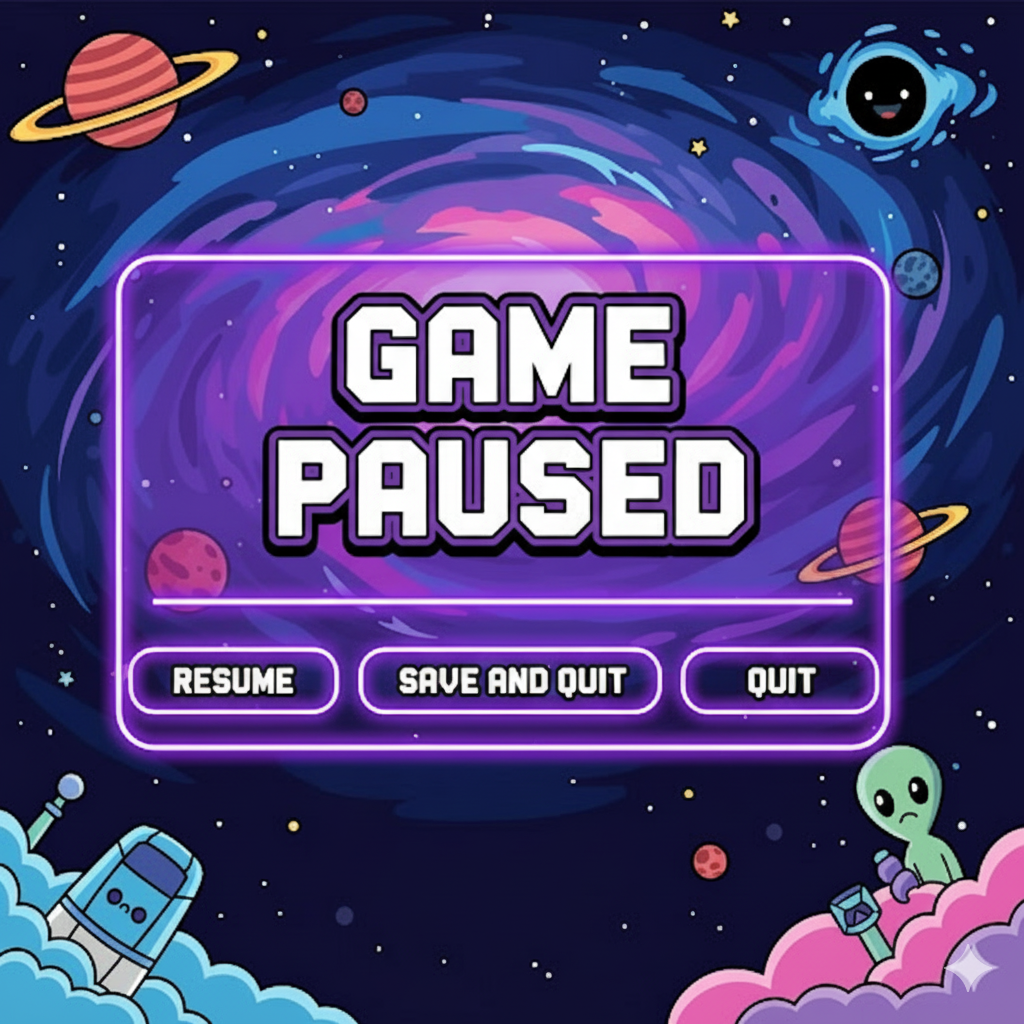
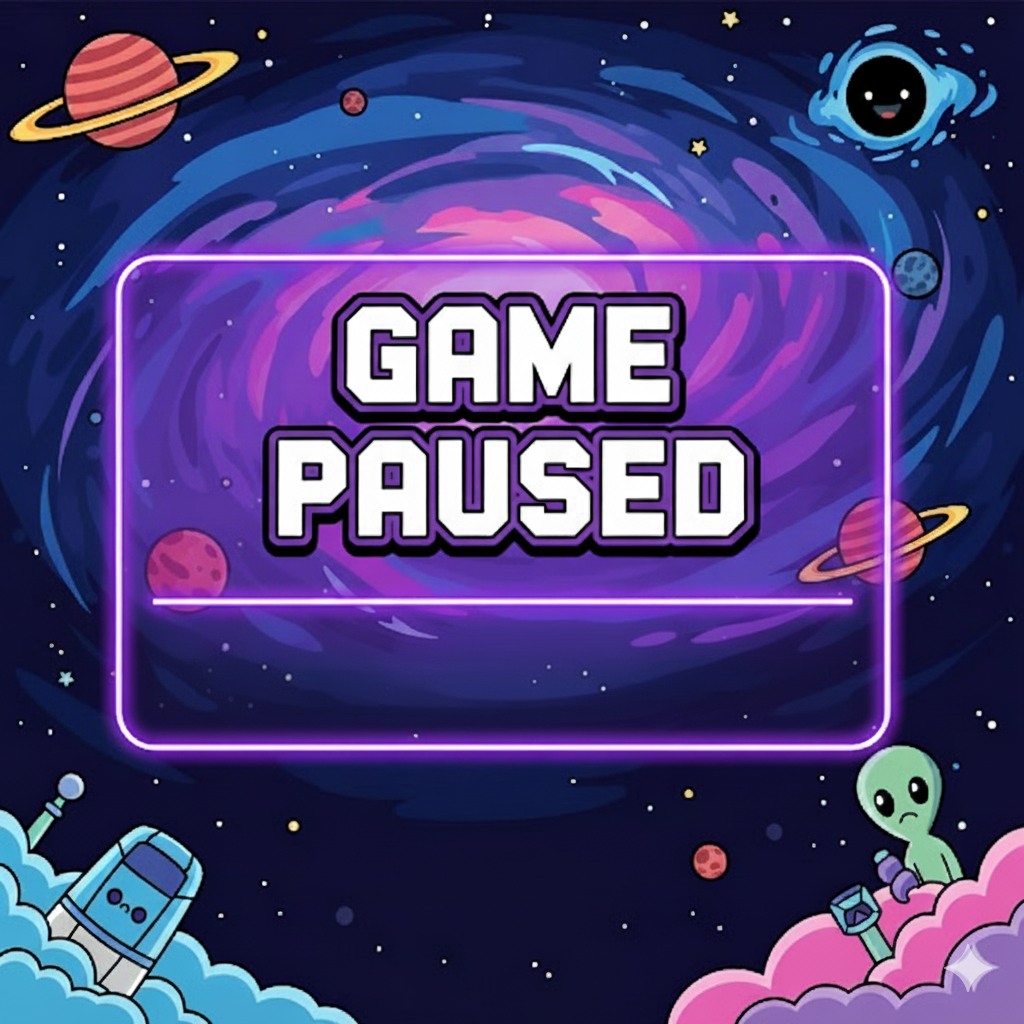
change way save game, save more game information

Changed region(s): [[0.0938, 0.5938, 0.875, 0.7188]]

diff --git a/src/main/java/Game/GameManager.java b/src/main/java/Game/GameManager.java
@@ -12,6 +12,7 @@ import javafx.scene.effect.DropShadow;
 import javafx.scene.image.Image;
 import javafx.scene.input.KeyCode;
 
+import java.io.File;
 import java.util.ArrayList;
 import java.util.Iterator;
 import java.util.List;
@@ -323,15 +324,12 @@ public class GameManager {
     public void saveGame(String fileName){
         GameState curState = new GameState();
 
-        // Lưu trạng thái ball: nếu có nhiều bóng, lưu trạng thái của quả đầu (đơn giản)
+        //save balls
         if (!balls.isEmpty()) {
-            Ball b = balls.get(0);
-            curState.setBallX(b.getX());
-            curState.setBallY(b.getY());
-            curState.setBallDirectionX(b.getDirectionX());
-            curState.setBallDirectionY(b.getDirectionY());
-            curState.setBallDX(b.getDx());
-            curState.setBallDY(b.getDy());
+            for(int i = 0; i < balls.size(); i++){
+                curState.balls.add(balls.get(i));
+            }
+
         }
 
         //save paddle state
@@ -343,39 +341,62 @@ public class GameManager {
         curState.setLives(lives);
         curState.setScore(score);
 
+        //save current level
+        curState.setLevel(currentLevel);
+
         //save brick state
         for(Brick brick : bricks){
             curState.bricks.add(new GameState.BrickState(brick.getX(), brick.getY(), brick.isDestroyed(), brick.getHitPoints()));
         }
 
-        //save to json file
-        try (FileWriter writer = new FileWriter(fileName)) {
+        //save powerUp
+        curState.setPowerUpManager(powerUpManager);
+
+        //save to json file in user's home directory
+        String userHome = System.getProperty("user.home");
+        File saveDir = new File(userHome, "ArkanoidSave");
+        if (!saveDir.exists()) saveDir.mkdirs(); // tạo thư mục nếu chưa có
+
+        File saveFile = new File(saveDir, "save.json");
+
+        try (FileWriter writer = new FileWriter(saveFile)) {
             Gson gson = new Gson();
             gson.toJson(curState, writer);
-            System.out.println("Game saved to " + fileName);
+            System.out.println("Game saved to: " + saveFile.getAbsolutePath());
         } catch (IOException e) {
             e.printStackTrace();
         }
-
     }
 
     //Load Game
     public void loadGame(String fileName){
+        String userHome = System.getProperty("user.home");
+        File saveFile = new File(userHome, "ArkanoidSave/save.json");
+
+        if (!saveFile.exists()) {
+            System.out.println("⚠Save file not found: " + saveFile.getAbsolutePath());
+            return;
+        }
+
         try (FileReader reader = new FileReader(fileName)) {
             Gson gson = new Gson();
             GameState state = gson.fromJson(reader, GameState.class);
 
             //load ball (đặt lại 1 bóng chính theo file)
             ensureSingleBallAttachedToPaddle();
-            if (!balls.isEmpty()) {
-                Ball b = balls.get(0);
-                b.setX(state.getBallX());
-                b.setY(state.getBallY());
-                b.setDx(state.getBallDX());
-                b.setDy(state.getBallDY());
-                b.setDirectionX(state.getBallDirectionX());
-                b.setDirectionY(state.getBallDirectionY());
+            balls.clear();
+            for(int i = 0; i < state.balls.size(); i++){
+                balls.add(balls.get(i));
             }
+
+            //load powerUpManager
+            powerUpManager = state.getPowerUpManager();
+            if (powerUpManager == null) {
+                powerUpManager = new PowerUpManager(screenHeight);
+            }
+
+            //load level
+            currentLevel = state.getLevel();
 
             //load paddle
             paddle.setX(state.getPaddleX());

diff --git a/src/main/java/Game/GameState.java b/src/main/java/Game/GameState.java
@@ -1,19 +1,22 @@
 package Game;
 
+import Game.PowerUp.PowerUp;
+import Game.PowerUp.PowerUpManager;
+
 import java.util.ArrayList;
 import java.util.List;
 
 public class GameState {
-    private double ballX, ballY;
-    private double ballDX, ballDY;
-    private double ballDirectionX, ballDirectionY;
-
+    private PowerUpManager powerUpManager;
     private double paddleX, paddleY;
     private int paddleSpeed;
     private int score;
     private int lives;
 
+    private int level;
+
     public List<BrickState> bricks = new ArrayList<>();
+    public List<Ball> balls = new ArrayList<>();
 
     public static class BrickState{
         private double x, y;
@@ -62,6 +65,22 @@ public class GameState {
         }
     }
 
+    public PowerUpManager getPowerUpManager() {
+        return powerUpManager;
+    }
+
+    public void setPowerUpManager(PowerUpManager powerUpManager) {
+        this.powerUpManager = powerUpManager;
+    }
+
+    public int getLevel() {
+        return level;
+    }
+
+    public void setLevel(int level) {
+        this.level = level;
+    }
+
     public int getLives() {
         return lives;
     }
@@ -100,53 +119,5 @@ public class GameState {
 
     public void setPaddleX(double paddleX) {
         this.paddleX = paddleX;
-    }
-
-    public double getBallDY() {
-        return ballDY;
-    }
-
-    public void setBallDY(double ballDY) {
-        this.ballDY = ballDY;
-    }
-
-    public double getBallDX() {
-        return ballDX;
-    }
-
-    public void setBallDX(double ballDX) {
-        this.ballDX = ballDX;
-    }
-
-    public double getBallY() {
-        return ballY;
-    }
-
-    public void setBallY(double ballY) {
-        this.ballY = ballY;
-    }
-
-    public double getBallX() {
-        return ballX;
-    }
-
-    public void setBallX(double ballX) {
-        this.ballX = ballX;
-    }
-
-    public double getBallDirectionX() {
-        return ballDirectionX;
-    }
-
-    public void setBallDirectionX(double ballDirectionX) {
-        this.ballDirectionX = ballDirectionX;
-    }
-
-    public double getBallDirectionY() {
-        return ballDirectionY;
-    }
-
-    public void setBallDirectionY(double ballDirectionY) {
-        this.ballDirectionY = ballDirectionY;
     }
 }

diff --git a/src/main/java/Game/PowerUp/PowerUp.java b/src/main/java/Game/PowerUp/PowerUp.java
@@ -10,7 +10,7 @@ public abstract class PowerUp extends GameObject {
     protected String type;
     protected double duration;       // giây
     protected double dy = 120.0;     // tốc độ rơi px/giây
-    protected Image image;           // ảnh hiển thị item rơi
+    protected transient Image image;           // ảnh hiển thị item rơi
 
     public PowerUp(int x, int y, int width, int height, String type, double duration) {
         super(x, y, width, height);
@@ -35,7 +35,7 @@ public abstract class PowerUp extends GameObject {
             try {
                 var is = getClass().getResourceAsStream(path);
                 if (is != null) {
-                    Image img = new Image(is);
+                     Image img = new Image(is);
                     if (img.getWidth() > 0) {
                         this.image = img;
                         return;

diff --git a/src/main/java/Game/Ball.java b/src/main/java/Game/Ball.java
@@ -8,11 +8,11 @@ import javafx.scene.paint.Color;
 public class Ball extends MovableObject {
     private int speed;
     private double directionX, directionY;
-    private Image image;
+    private transient Image image;
     private boolean piercing;
 
-    private static Image IMG_NORMAL;
-    private static Image IMG_FIRE;
+    private static transient Image IMG_NORMAL;
+    private static transient Image IMG_FIRE;
 
     static {
         try {

diff --git a/src/main/java/module-info.java b/src/main/java/module-info.java
@@ -13,8 +13,12 @@ module Game {
     //requires Game;
 
     opens Game to com.google.gson, javafx.fxml;
+    opens Game.Brick to com.google.gson;
+    opens Game.PowerUp to com.google.gson, javafx.fxml;
+    opens Game.Map to com.google.gson;
+
 //    opens Game to javafx.fxml;
     exports Game;
     exports Game.PowerUp;
-    opens Game.PowerUp to javafx.fxml;
+
 }

diff --git a/src/main/java/Game/PowerUp/MultiBallPowerUp.java b/src/main/java/Game/PowerUp/MultiBallPowerUp.java
@@ -7,7 +7,7 @@ public class MultiBallPowerUp extends PowerUp {
     private boolean executed = false;
     private final PowerUpManager manager;
 
-    private static final Image IMG = new Image(
+    private static final transient Image IMG = new Image(
             MultiBallPowerUp.class.getResource("/Image/PowerUp/multiball.png").toExternalForm()
     );
 

diff --git a/src/main/java/Game/PowerUp/ExpandPaddlePowerUp.java b/src/main/java/Game/PowerUp/ExpandPaddlePowerUp.java
@@ -10,7 +10,7 @@ public class ExpandPaddlePowerUp extends PowerUp {
     private int originalWidth;
     private int originalHeight;
 
-    private static final Image IMG = new Image(
+    private static final transient Image IMG = new Image(
             ExpandPaddlePowerUp.class.getResource("/Image/PowerUp/expand.png").toExternalForm()
     );
 

diff --git a/src/main/java/Game/PowerUp/FastBallPowerUp.java b/src/main/java/Game/PowerUp/FastBallPowerUp.java
@@ -9,7 +9,7 @@ public class FastBallPowerUp extends PowerUp {
     private boolean isActive = false;
     private int originalSpeed;
 
-    private static final Image IMG = new Image(
+    private static final transient Image IMG = new Image(
             FastBallPowerUp.class.getResource("/Image/PowerUp/fastball.png").toExternalForm()
     );
 

diff --git a/src/main/java/Game/PowerUp/FireballPowerUp.java b/src/main/java/Game/PowerUp/FireballPowerUp.java
@@ -9,7 +9,7 @@ import java.util.List;
 public class FireballPowerUp extends PowerUp {
     private boolean isActive = false;
 
-    private static final Image IMG = new Image(
+    private static  transient Image IMG = new Image(
             FireballPowerUp.class.getResource("/Image/PowerUp/fireball.png").toExternalForm()
     );
 

diff --git a/src/main/java/Game/PowerUp/PowerUpManager.java b/src/main/java/Game/PowerUp/PowerUpManager.java
@@ -31,7 +31,7 @@ public class PowerUpManager {
     private int MAX_PER_TYPE_PER_LEVEL = 2;
     private final Map<String, Integer> perTypeSpawned = new HashMap<>();
 
-    private final Random rng = new Random();
+    private transient final Random rng = new Random();
 
     private final List<PowerUp> items = new ArrayList<>();
 

diff --git a/src/main/java/Game/Map/Map.java b/src/main/java/Game/Map/Map.java
@@ -15,7 +15,7 @@ import java.util.Scanner;
 
 public class Map {
     protected List<Brick> bricks;
-    protected Image BackGround;
+    protected transient Image BackGround;
     protected InputStream path;
 
     public Map(Image BackGround, InputStream path){
